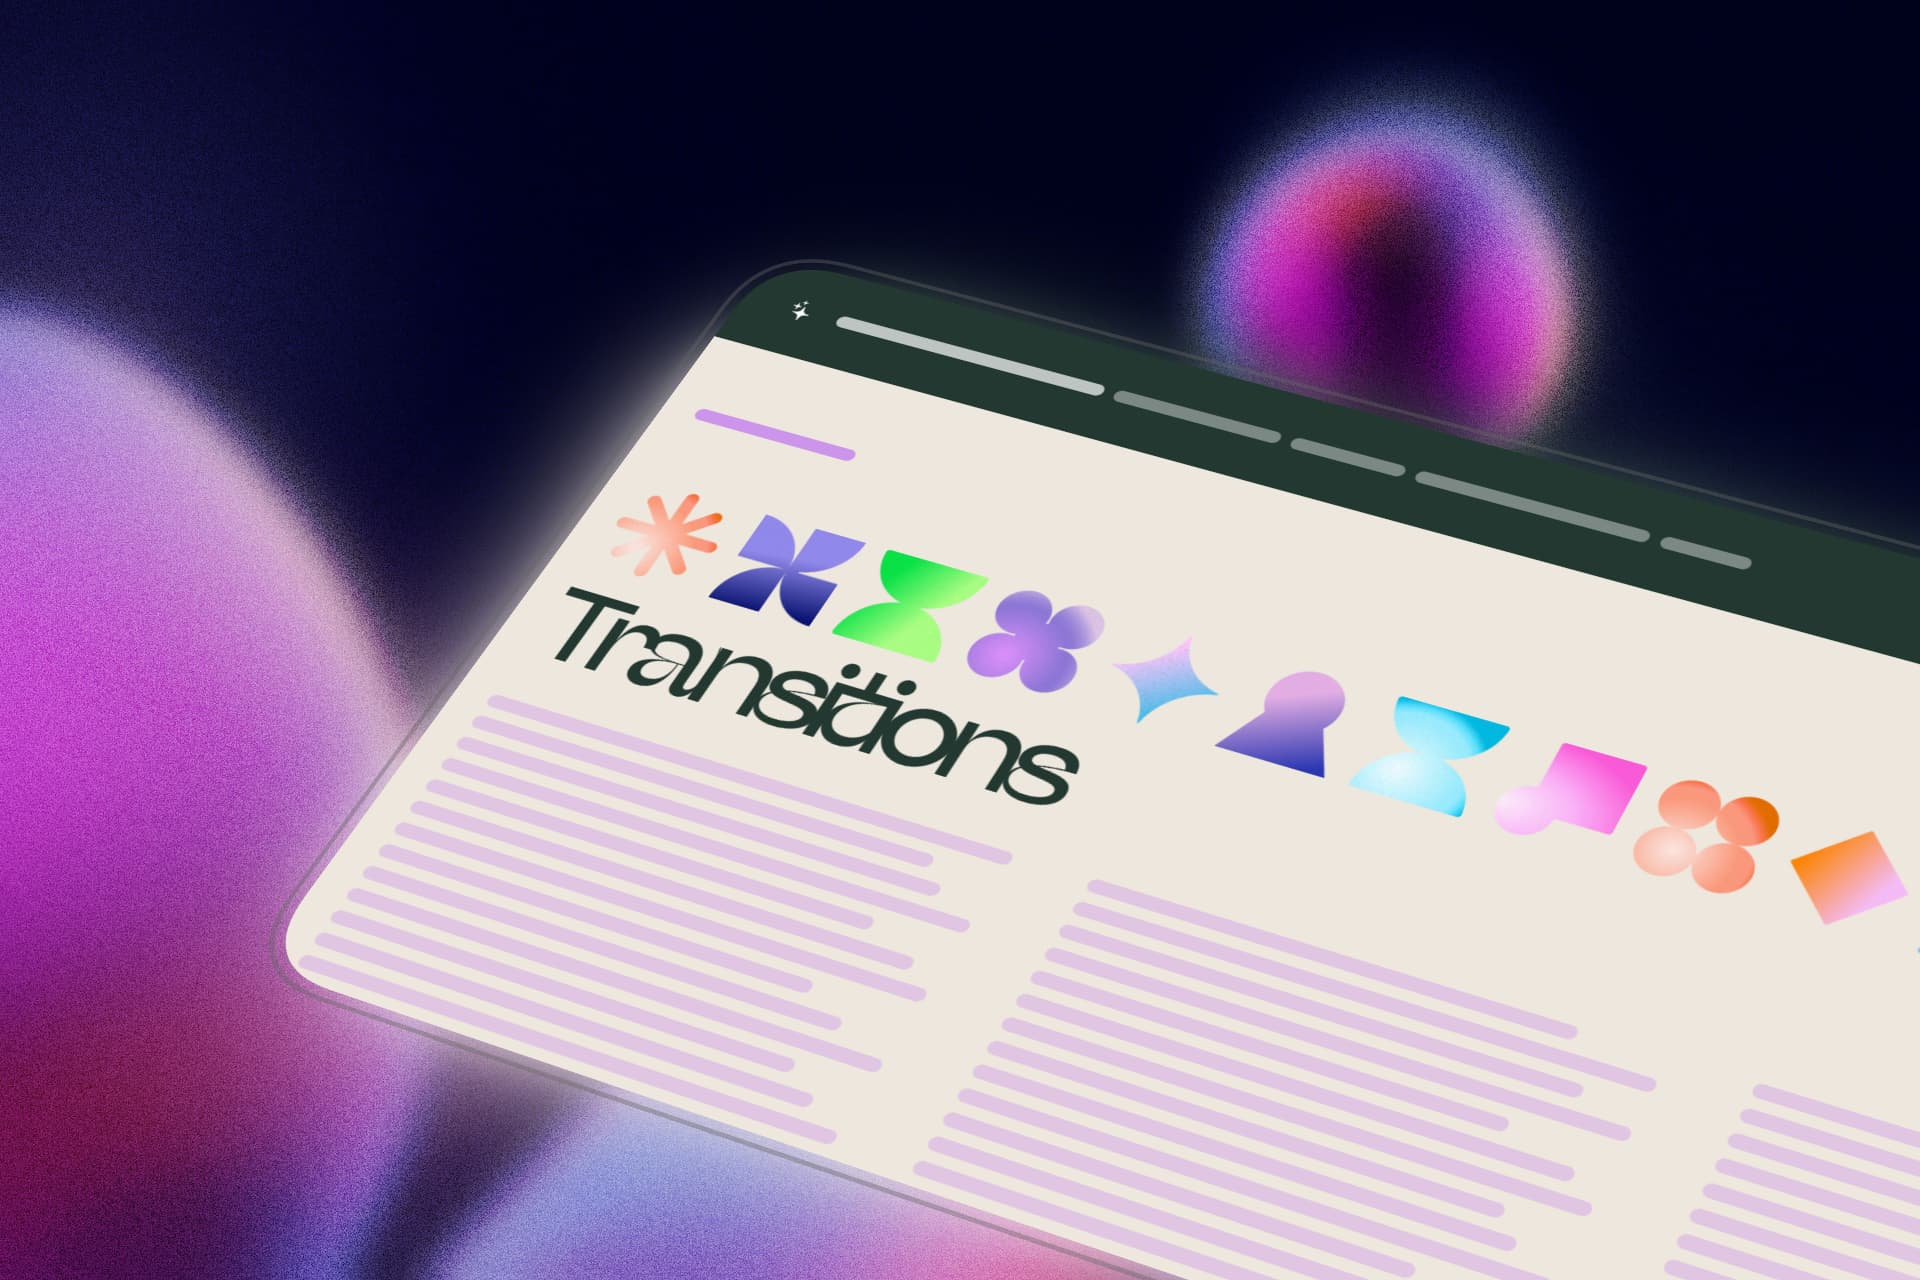
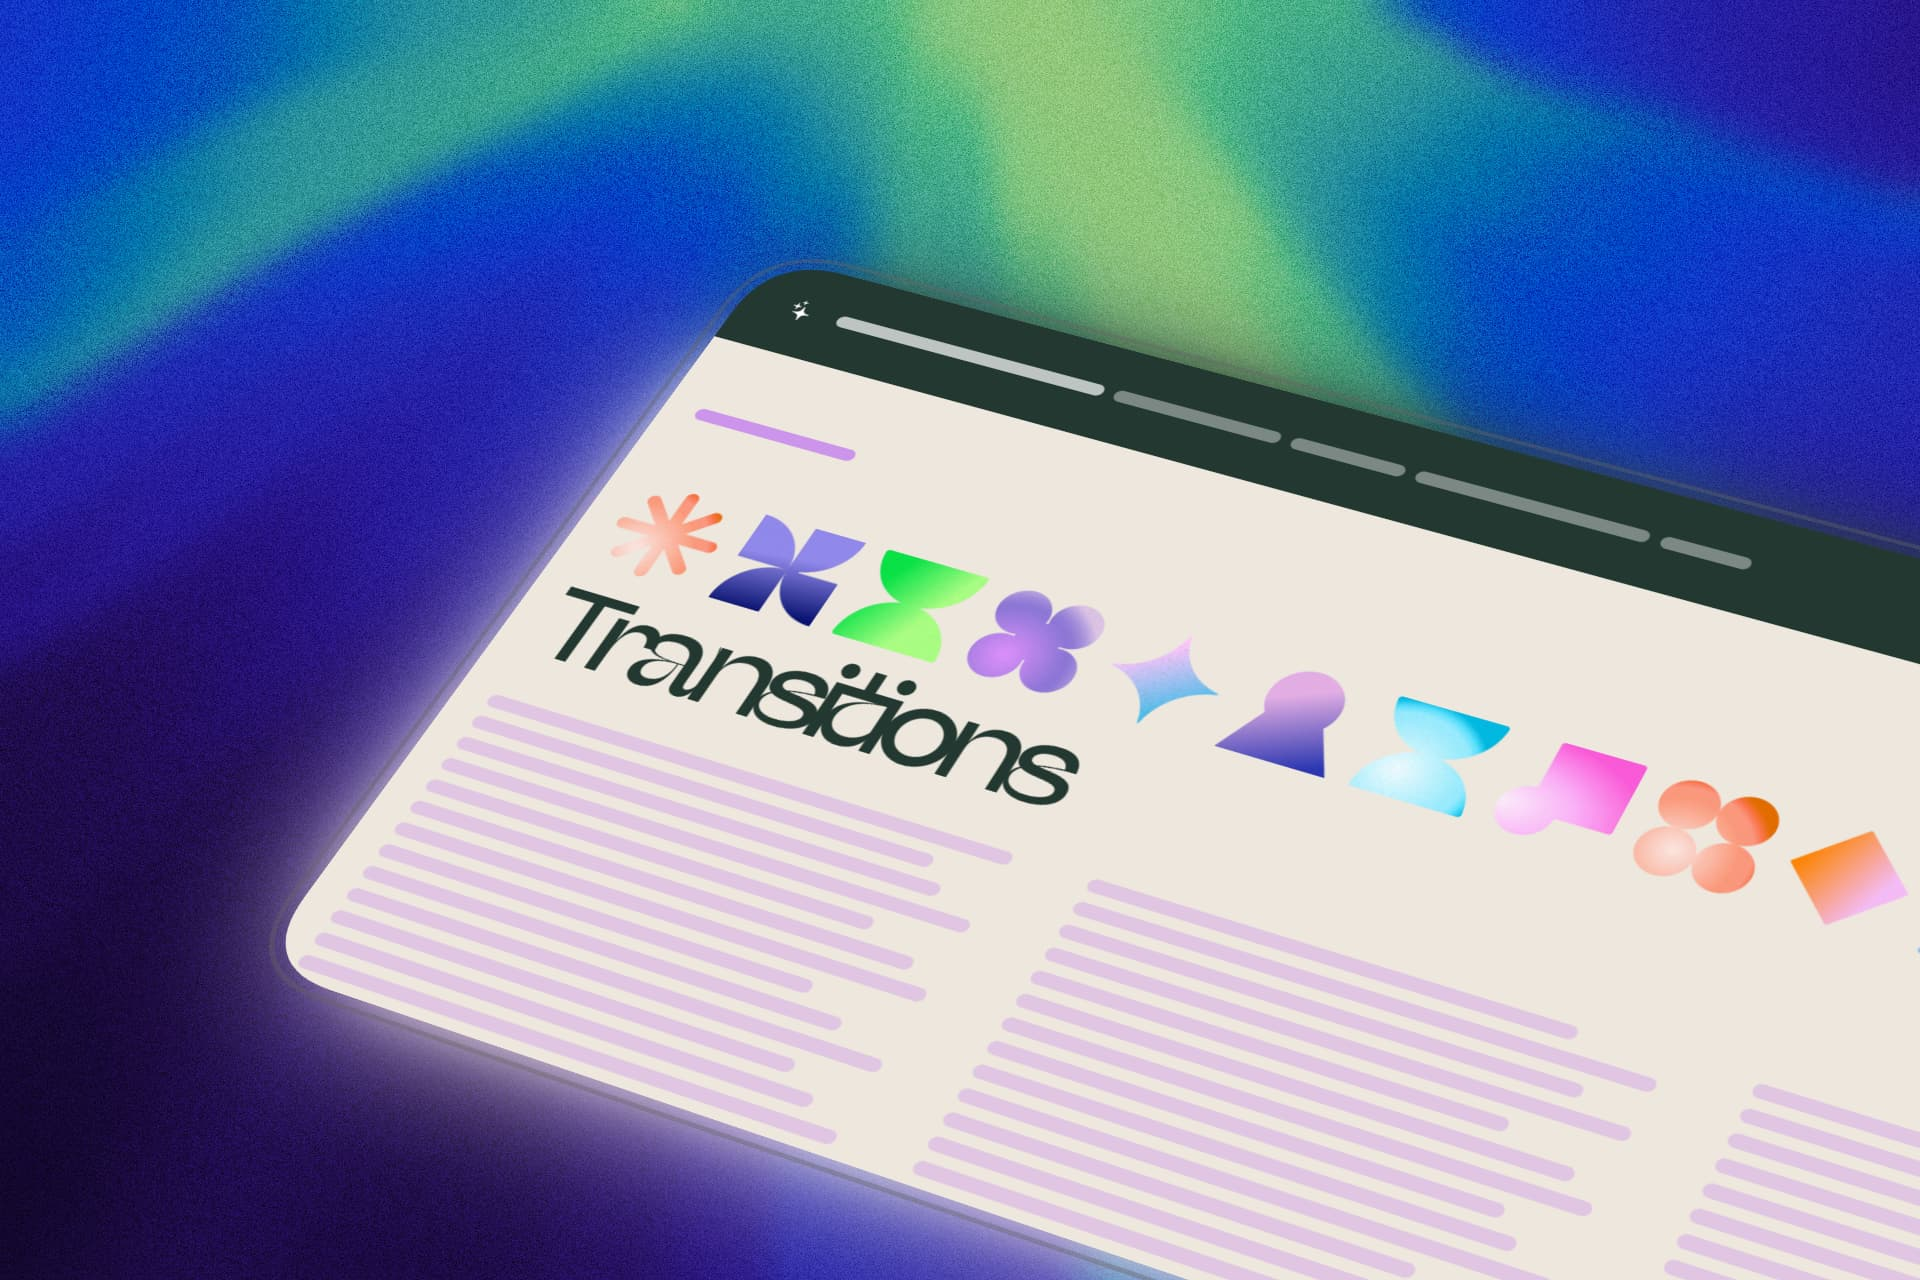
docs: finalize readme and preview image

diff --git a/README.md b/README.md
@@ -1,14 +1,22 @@
 # GenesisPixel | Demos
 
-> Plataforma de demos interactivas de la pagina principal de Genesis Pixel
+![Preview](img/preview.jpg)
+
+> Plataforma de demos interactivas derivadas de las cards de la pagina principal de Genesis Pixel.
 
 ---
 
-## Descripcion
+## Sobre este proyecto
 
-Este proyecto contiene las demos de las cards de la pagina principal de Genesis Pixel. Cada capitulo demuestra un concepto diferente de CSS y desarrollo frontend con ejemplos visuales e interactivos.
+GenesisPixel | Demos es una coleccion de capitulos visuales e interactivos que exploran diferentes tecnicas de CSS y desarrollo frontend. Cada capitulo esta inspirado en las cards de la pagina principal de [Genesis Pixel](https://genesis-pixel.vercel.app/), permitiendo al usuario profundizar en cada concepto con ejemplos practicos y efectos visuales unicos.
 
-**Pagina principal:** [https://genesis-pixel.vercel.app/](https://genesis-pixel.vercel.app/)
+---
+
+## Pagina principal
+
+Para ver la version completa de Genesis Pixel, visita:
+
+**[https://genesis-pixel.vercel.app/](https://genesis-pixel.vercel.app/)**
 
 ---
 
@@ -25,28 +33,28 @@ Este proyecto contiene las demos de las cards de la pagina principal de Genesis 
 
 ---
 
-## Tecnologias
+## Tecnologias utilizadas
 
-- HTML5
-- CSS3 (Grid, Flexbox, Custom Properties)
-- Afronaut Font (tipografia personalizada)
-- SVG (iconos y efectos gooey con filtros)
+- **HTML5** - Estructura semantica y accesible
+- **CSS3** - Grid, Flexbox y Custom Properties para layouts flexibles
+- **Afronaut Font** - Tipografia personalizada para titulos
+- **SVG** - Iconos vectoriales y efectos gooey mediante filtros
 
 ---
 
-## Caracteristicas
+## Caracteristicas principales
 
-- Navbar personalizada con icono de estrellas
+- Navbar personalizada con icono de estrellas y lineas de navegacion
 - Efecto Goo SVG con filtros de fusion unicos por capitulo
-- Grid de 3 columnas con divisores dashed
-- Navegacion por capitulos con botones circulares
-- 11 imagenes SVG por capitulo
-- Colores personalizados por capitulo con CSS Variables
-- Transiciones suaves en interacciones
+- Grid de 3 columnas con divisores para separar contenido
+- Navegacion entre capitulos con botones circulares de colores
+- 11 imagenes SVG por capitulo con diferentes composiciones
+- Colores personalizados por capitulo definidos con CSS Variables
+- Transiciones suaves en todas las interacciones
 
 ---
 
-## Estructura
+## Estructura del proyecto
 
 ```
 genesis-pixel-demos/
@@ -60,38 +68,45 @@ genesis-pixel-demos/
 ├── css/
 │   └── base.css        # Estilos principales
 ├── img/
+│   ├── preview.jpg     # Vista previa del proyecto
 │   ├── favicon.png     # Icono del sitio
-│   ├── stars.svg       # Icono navbar
-│   └── svg-*.png       # Imagenes de capitulos
+│   ├── stars.svg       # Icono de la navbar
+│   └── svg-*.png       # Imagenes de cada capitulo
 └── README.md
 ```
 
 ---
 
-## Como Usar
+## Como ejecutar
 
-1. Clona el repositorio
-2. Abre `index.html` en tu navegador
-3. Navega entre capitulos usando los botones circulares
-4. Explora los diferentes efectos visuales
+1. Clonar el repositorio
+2. Abrir el archivo `index.html` en un navegador web
+3. Navegar entre capitulos usando los botones circulares ubicados en la esquina inferior derecha
+4. Explorar los diferentes efectos visuales de cada capitulo
 
 ---
 
-## Paleta de Colores
+## Paleta de colores
 
 | Color | Codigo | Uso |
 |-------|--------|-----|
 | Beige | `hsla(36, 31%, 90%, 1)` | Fondo principal |
 | Verde oscuro | `hsla(158, 23%, 18%, 1)` | Texto y navbar |
-| Purpura | `rgb(205, 148, 235)` | Cap 1 - Transitions |
-| Verde | `rgb(174, 226, 205)` | Cap 2 - Transform |
-| Naranja | `rgb(227, 188, 155)` | Cap 3 - Keyframes |
-| Azul | `rgb(188, 225, 251)` | Cap 4 - Interacciones |
-| Rosa | `#FF96F9` | Cap 5 - Three.js |
-| Amarillo | `#FFC555` | Cap 6 - Shaders |
+| Purpura | `rgb(205, 148, 235)` | Capitulo 1 - Transitions |
+| Verde | `rgb(174, 226, 205)` | Capitulo 2 - Transform |
+| Naranja | `rgb(227, 188, 155)` | Capitulo 3 - Keyframes |
+| Azul | `rgb(188, 225, 251)` | Capitulo 4 - Interacciones |
+| Rosa | `#FF96F9` | Capitulo 5 - Three.js |
+| Amarillo | `#FFC555` | Capitulo 6 - Shaders |
 
 ---
 
-**GenesisPixel** - Desarrollo Web Creativo
+## Desarrollado por
 
-https://genesis-pixel.vercel.app/
+**Sebastian Vasquez Echavarria**
+
+Portfolio: [https://sebas-dev.vercel.app/](https://sebas-dev.vercel.app/)
+
+---
+
+Proyecto parte de Genesis Pixel - [https://genesis-pixel.vercel.app/](https://genesis-pixel.vercel.app/)